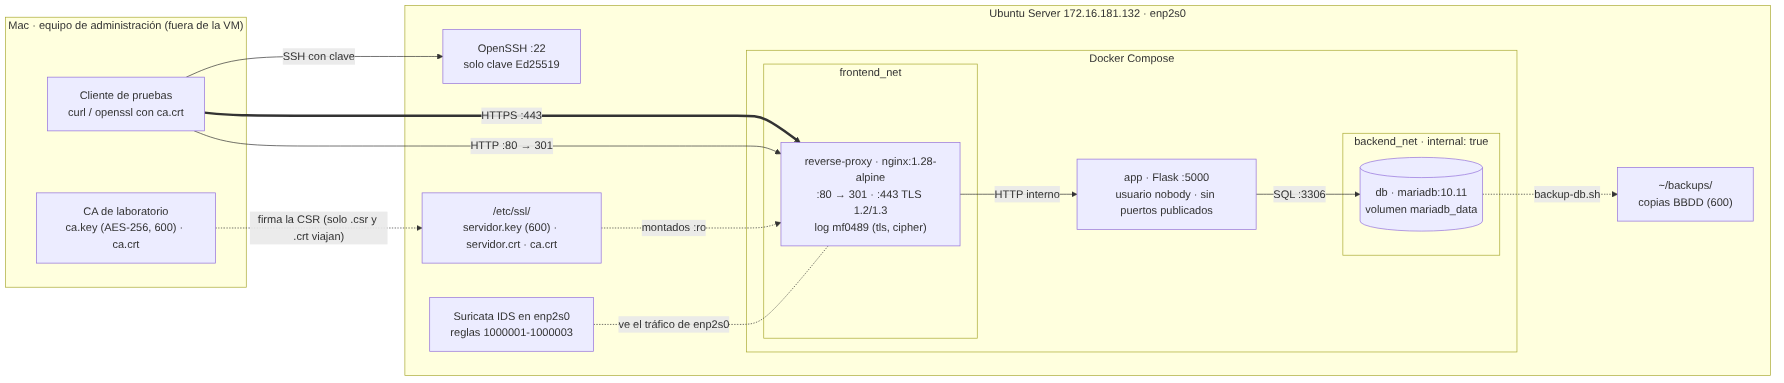
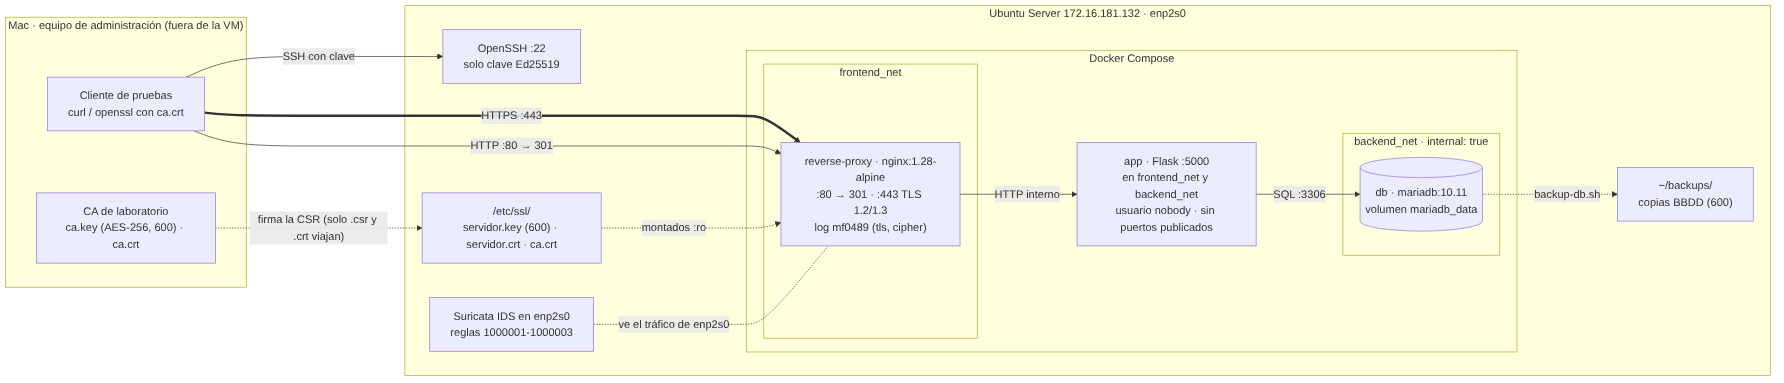
Revisión de todo el repo, también lo del MF0488
- docs/correcciones-mf0488.md: qué decían los docs del MF0488 que ya no es cierto,
  qué hay hoy y su evidencia. Banner en cada documento antiguo (sin reescribirlos)
- check_baseline.sh: con 0 alertas escribía "0" dos veces (corregido)
- Scripts del MF0488 que no se usan, marcados en su cabecera
- Borradas carpetas vacías (diffie-hellman, nginx/conf.d) y .gitkeep sobrantes
- CI: shellcheck de todos los .sh del repo
- Imágenes por rama, no "fijas": dicho tal cual en README y Fase 3
- Diagrama final: la app aparece en las dos redes
- Guía: versiones probadas, con su evidencia

Changed region(s): [[0.5858, 0.3734, 0.7091, 0.6606]]

diff --git a/docs/correcciones-mf0488.md b/docs/correcciones-mf0488.md
@@ -1,0 +1,40 @@
+# Lo del MF0488 que ya no es cierto (o que no se podía demostrar)
+
+Los documentos del MF0488 (`ARCHITECTURE.md`, `docs/adr/`, `docs/WORKLOG.md`, `docs/architecture-schema.md`, `docs/architecture/`, `docs/assets/` y los `.excalidraw`) se quedan como estaban: son lo que se entregó y se corrigió entonces. Esta tabla dice qué partes ya no valen, qué hay hoy y dónde está la prueba. **Cuando no coincidan, manda lo del MF0489.**
+
+## Documentos
+
+| Dónde | Qué dice | Qué hay hoy | Evidencia |
+|---|---|---|---|
+| README antiguo, `architecture-schema.md`, ADR-0006 | "Solo TLS 1.3" | TLS 1.2 y 1.3. 1.1 rechazado | [Fase 4 §3](mf0489/fase4-auditoria-tls-monitorizacion.md#3-versiones-tls), [`check-mac-github.txt`](mf0489/evidencias/fase5/check-mac-github.txt) §8 |
+| ADR-0006 | Certificados autofirmados RSA 2048 | CA propia RSA 4096 (fuera de la VM) y certificado del servidor RSA 3072 firmado por ella | [Fase 2](mf0489/fase2-pki.md) |
+| ADR-0001, ADR-0002, `docs/WORKLOG.md` | Ubuntu Server 24.04 LTS | Ubuntu 26.04 LTS | [`fase5-ssh-firewall-backup.txt`](mf0489/evidencias/fase5/fase5-ssh-firewall-backup.txt) (final) |
+| ADR-0001 | "La única forma de llegar a la BBDD es a través de Nginx" y "los intentos de acceso quedan en los logs de Nginx" | Nginx **no** está en `backend_net` y ni resuelve `db`. Solo la app habla con MariaDB | [`check-vm-github.txt`](mf0489/evidencias/fase5/check-vm-github.txt) §9 y §10 |
+| ADR-0001, README antiguo | WAF | No hay WAF. Nginx es solo reverse proxy | [`default.conf`](../layer2-perimeter/nginx/default.conf) |
+| ADR-0001 | `internal: true` funciona con reglas en la cadena `DOCKER-USER` | No revisé las reglas de iptables. Lo comprobado es el efecto: la BBDD no sale a internet | [`check-vm-github.txt`](mf0489/evidencias/fase5/check-vm-github.txt) §10 |
+| ADR-0002 | Suricata detecta escaneos Nmap. Captura con eBPF | Ninguna regla busca Nmap. Captura con `af-packet`, sin eBPF | [`local.rules`](../layer1-telemetry/suricata/rules/local.rules), [`suricata-config.txt`](mf0489/evidencias/fase4/suricata-config.txt) |
+| ADR-0004 | 1000001 = ICMP Echo Request. 1000002 = user-agent de Nmap, Nikto o sqlmap | 1000001 salta con **cualquier** ICMP (también IPv6 tipo 133). 1000002 salta con cualquier TCP al 80, no mira el user-agent. Las de Nmap estaban en el repo, pero no eran las que corrían en la VM | [`fase4-intento1-vm.txt`](mf0489/evidencias/fase4/fase4-intento1-vm.txt), [`feedback-mf0488.txt`](mf0489/evidencias/fase4/feedback-mf0488.txt) |
+| ADR-0005 | Un hook `pre-commit` actualiza el WORKLOG. "Trazabilidad 100% garantizada" | Hubo un hook local: los commits `e1d76a0` y `1e19d5f` del 15/09 cambian el WORKLOG y su mensaje dice que probaban el hook, pero git no sube los hooks: quien clone el repo no lo tiene. No garantiza nada. El WORKLOG del MF0489 está hecho a mano | `git show e1d76a0 --stat` |
+| ADR-0003 | Numeración ADR-000, 001 y 003 dentro de un archivo | Choca con los archivos `0001`…`0007`. Se deja como está | — |
+| ADR-0003 | OpsMatrix es una fintech | Es el portal de una gestoría (README) | — |
+| `docs/WORKLOG.md` (sesión 3) | MariaDB 11.4, contenedores `(healthy)`, redes `docker_backend_net` y `docker_frontend_net` | `mariadb:10.11`, sin `healthcheck` en el compose, redes `opsmatrix-lab_frontend_net` y `opsmatrix-lab_backend_net`. Las `docker_*` se borraron en la Fase 5 | [`docker-compose.yml`](../docker-compose.yml), [`check-vm-github.txt`](mf0489/evidencias/fase5/check-vm-github.txt) §7, §9 y §13 |
+| ADR-0007 | Persistencia con bind mounts | Volumen con nombre `mariadb_data` | [Fase 3 §7](mf0489/fase3-https-docker.md#7-app-y-persistencia) |
+| ADR-0007 | AppArmor y OrbStack | No configuré ni comprobé AppArmor. Las pruebas en local del MF0489 no se hicieron en OrbStack | — |
+| `architecture-schema.md` | Contenedor `opsmatrix_web` en las dos redes | `reverse-proxy` solo en `frontend_net`. `app` en las dos | [`check-vm-github.txt`](mf0489/evidencias/fase5/check-vm-github.txt) §9 |
+| `docs/architecture/00-documentation-framework.md` | `.gitignore` bloquea los `.crt` | Los certificados son públicos y están en `layer2-perimeter/pki/`. Se bloquean claves, `.env` y copias | [`.gitignore`](../.gitignore) |
+| `docs/architecture/00-documentation-framework.md` | Conventional Commits y entregables en HTML5 | Los commits del MF0489 empiezan por `MF0489:`. No hay entregables en HTML | `git log` |
+| `docs/assets/README.md` | Los diagramas se ven en `ARCHITECTURE.md` | `ARCHITECTURE.md` no tiene imágenes. El diagrama actual es [`arquitectura-final.png`](mf0489/arquitectura-final.png) | — |
+| `architecture.excalidraw`, `architecture-master.excalidraw`, `assets/architecture-schema.png` | Diagramas del MF0488 | Sustituidos por [`arquitectura-final.mmd`](mf0489/arquitectura-final.mmd) | — |
+
+## Scripts y carpetas
+
+| Qué | Problema | Qué hice |
+|---|---|---|
+| `scripts/sync_ops.sh` | Hace `git add .` y `git push origin main` sin revisar lo que sube | No se usa en el MF0489. Se sube a mano después de revisar, y la CI lo vuelve a comprobar. Marcado en su cabecera |
+| `layer1-telemetry/scripts/log_work.sh` y `capture_debug.sh` | Escriben en `docs/WORKLOG.md` (MF0488) | No se usan en el MF0489. Marcados en su cabecera |
+| `layer1-telemetry/baseline/check_baseline.sh` | Con 0 alertas escribía `0` dos veces (`grep -c` ya escribe 0 y luego `\|\| echo "0"` añade otro) | Corregido con `\|\| true`. Es una línea base de salud. La de actividad está en la [Fase 4](mf0489/fase4-auditoria-tls-monitorizacion.md#evidencias-pedidas-en-el-feedback-del-mf0488) |
+| Carpetas `layer2-perimeter/diffie-hellman/` y `layer3-services/nginx/conf.d/` | Vacías (solo `.gitkeep`). Parecían decir que había parámetros DH o una config de Nginx ahí | Borradas. Nginx no usa `ssl_dhparam`: en TLS 1.2 negocia ECDHE ([`fase4-mac.txt`](mf0489/evidencias/fase4/fase4-mac.txt)) |
+| `.gitkeep` en carpetas que ya tienen archivos | Sobraban | Borrados |
+| CI | `shellcheck` solo miraba `scripts/` | Ahora mira todos los `.sh` del repo |
+
+Salida de las comprobaciones: [`scripts-mf0488.txt`](mf0489/evidencias/fase5/scripts-mf0488.txt).

diff --git a/README.md b/README.md
@@ -24,7 +24,7 @@ Laboratorio que simula el portal de una gestoría. La web es mínima a propósit
 
 Las fases 1-4 empiezan con la tabla de criterios de la rúbrica y dónde está la evidencia de cada uno. Lo que dicen los docs está comprobado contra el código en [`coherencia-docs-codigo.txt`](docs/mf0489/evidencias/fase5/coherencia-docs-codigo.txt).
 
-Lo del MF0488 sigue en [`docs/WORKLOG.md`](docs/WORKLOG.md) y [`docs/adr/`](docs/adr/). Es la foto de entonces: donde no coincida con lo de arriba (por ejemplo "solo TLS 1.3" o el compose de `layer3-services/docker`), manda lo del MF0489.
+Lo del MF0488 sigue en [`docs/WORKLOG.md`](docs/WORKLOG.md) y [`docs/adr/`](docs/adr/). Es la foto de entonces y no lo he reescrito. Lo que ya no es cierto (por ejemplo "solo TLS 1.3", el WAF o las reglas de Nmap) está en [correcciones-mf0488.md](docs/correcciones-mf0488.md), con lo que hay hoy y su evidencia.
 
 ## Cómo funciona
 
@@ -57,7 +57,7 @@ Lo del MF0488 sigue en [`docs/WORKLOG.md`](docs/WORKLOG.md) y [`docs/adr/`](docs
 | Configuración como código | Compose, Nginx, reglas de Suricata y SSH versionados en el repo |
 | Observabilidad | Suricata en la red + log de Nginx con versión TLS, cruzados por IP y puerto |
 | Reproducible | `deploy.sh` + `check-*.sh`. Comprobado tras reiniciar la VM |
-| Versiones fijas | Imágenes (`nginx:1.28-alpine`, `mariadb:10.11`) y todas las dependencias de Python, también las transitivas |
+| Versiones fijas | Dependencias de Python exactas (`==`), también las transitivas. Imágenes por rama (`nginx:1.28-alpine`, `mariadb:10.11`, `python:3.12-slim`): no cambian de versión mayor, pero sí reciben parches |
 
 ## Cómo lo he hecho
 
@@ -66,7 +66,7 @@ Lo del MF0488 sigue en [`docs/WORKLOG.md`](docs/WORKLOG.md) y [`docs/adr/`](docs
 | **Método** | MSA / lean: lo mínimo que funcione y se pueda comprobar. Tablas antes que texto, una decisión = un motivo |
 | **Pruebas** | Primero en local, luego en la VM. Pruebas positivas y negativas (lo que tiene que fallar, falla). Matriz completa en la [Fase 5](docs/mf0489/fase5-entrega-final.md#cómo-he-probado-qa) |
 | **Trazabilidad** | Cada paso y cada problema en el [WORKLOG](docs/mf0489/WORKLOG.md). Las salidas de las pruebas son reales y están en [`evidencias/`](docs/mf0489/evidencias/) |
-| **CI** | [GitHub Actions](.github/workflows/checks.yml) repite en cada push `shellcheck`, `docker compose config`, `pip-audit` y `detect-secrets`. Con permisos de solo lectura y la acción fijada por commit |
+| **CI** | [GitHub Actions](.github/workflows/checks.yml) repite en cada push `shellcheck` (todos los `.sh`), `docker compose config`, `py_compile`, `pip-audit` y `detect-secrets`. Con permisos de solo lectura y la acción fijada por commit |
 | **IA** | Ver abajo |
 
 ### Uso de la IA
@@ -121,7 +121,7 @@ opsmatrix-lab/
 │   ├── pki/                      ← ca.crt, servidor.crt/.csr/.ext, ca.crl, ca.cnf (todo público)
 │   └── ssh/00-opsmatrix.conf     ← SSH solo con clave
 ├── layer3-services/app/          ← app Flask + Dockerfile
-├── scripts/                      ← deploy, backup-db, check-vm, check-mac, fase4-*, pki-revocacion y sync_ops (MF0488)
+├── scripts/                      ← deploy, backup-db, check-vm, check-mac, fase4-*, feedback-mf0488-vm, pki-revocacion y sync_ops (MF0488, no se usa)
 └── docs/mf0489/                  ← fases, guía, WORKLOG y evidencias
 ```
 

diff --git a/docs/mf0489/fase1-arquitectura.md b/docs/mf0489/fase1-arquitectura.md
@@ -26,8 +26,8 @@ Actualizo el diagrama de OpsMatrix (MF0488) para añadir HTTPS. Nginx pasa a ser
 
 | Pregunta | Respuesta |
 |---|---|
-| ¿Por qué HTTPS y no HTTP? | Con HTTP todo viaja en claro: usuario, contraseña y datos de clientes se leen con un `tcpdump` (se ve en la Fase 4). Y nada demuestra que el servidor sea el bueno, así que alguien en medio puede suplantarlo (MITM). HTTPS añade cifrado, integridad y autenticación del servidor |
-| ¿Por qué TLS 1.2 y 1.3? | TLS 1.3 tiene un handshake más corto, solo admite cifrados AEAD y siempre usa claves de sesión nuevas (forward secrecy). TLS 1.2 se deja por compatibilidad con clientes más antiguos. 1.0 y 1.1 están obsoletos (RFC 8996) |
+| ¿Por qué HTTPS y no HTTP? | Con HTTP todo viaja en claro: rutas, cabeceras y, si los hubiera, usuarios, contraseñas y datos de clientes se leen con un `tcpdump` (en la Fase 4 se ven la ruta y las cabeceras del puerto 80). Y nada demuestra que el servidor sea el bueno, así que alguien en medio puede suplantarlo (MITM). HTTPS añade cifrado, integridad y autenticación del servidor |
+| ¿Por qué TLS 1.2 y 1.3? | TLS 1.3 tiene un handshake más corto, solo admite cifrados AEAD y cada handshake completo usa claves de sesión nuevas (forward secrecy). TLS 1.2 se deja por compatibilidad con clientes más antiguos. 1.0 y 1.1 están obsoletos (RFC 8996) |
 
 ## Diagrama
 

diff --git a/docs/mf0489/WORKLOG.md b/docs/mf0489/WORKLOG.md
@@ -23,6 +23,7 @@ Rama `mf0489-https`, ya unida a `main`. Trabajo hecho del 19 al 21/10/2026 entre
 | 17 | Evidencias pedidas en el feedback del MF0488: ping, SID 1000001, `suricata -T`, `HOME_NET` y línea base de actividad | Todo real. [Fase 4](fase4-auditoria-tls-monitorizacion.md#evidencias-pedidas-en-el-feedback-del-mf0488) |
 | 18 | Subida a GitHub y comprobación desde un clon limpio: `check-vm.sh` en la VM (en `main`) y `check-mac.sh` en el Mac | Igual que antes de subir. [`check-vm-github.txt`](evidencias/fase5/check-vm-github.txt) y [`check-mac-github.txt`](evidencias/fase5/check-mac-github.txt) |
 | 19 | Revisión cruzada: cada salida de los docs buscada en las evidencias y cada directiva en el código | 44 OK. Las salidas que solo estaban en mi terminal ahora están en `evidencias/`. [`coherencia-docs-codigo.txt`](evidencias/fase5/coherencia-docs-codigo.txt) |
+| 20 | Revisión de todo el repo, también lo del MF0488 | Tabla de [correcciones del MF0488](../correcciones-mf0488.md), banner en cada documento antiguo, bug de `check_baseline.sh` corregido, carpetas vacías borradas y `shellcheck` de todos los `.sh` en la CI |
 
 ## Dificultades
 

diff --git a/docs/mf0489/fase3-https-docker.md b/docs/mf0489/fase3-https-docker.md
@@ -122,7 +122,7 @@ Pesa 131 bytes porque el volumen estaba vacío: la BBDD nunca llegó a arrancar,
 | `expose` en la app en vez de `ports` | Así solo se ve dentro de Docker. La única entrada es Nginx |
 | Contraseñas en `.env` (600, en `.gitignore`) | En el MF0488 me penalizaron por tenerlas escritas en el compose |
 | La app corre como `nobody` | Si la explotan, no es root dentro del contenedor |
-| Versiones fijas (`nginx:1.28-alpine`, `mariadb:10.11`) | Para que siempre se instale lo mismo y no lo que traiga `latest` ese día |
+| Imágenes por rama (`nginx:1.28-alpine`, `mariadb:10.11`) | Que no entre una versión mayor nueva sin querer, como pasaría con `latest`. Los parches sí entran. Fijarlas por digest (`@sha256:…`) sería lo exacto, pero habría que actualizarlas a mano |
 | Un solo `docker-compose.yml` | Había dos y uno no se usaba. Borré el que sobraba |
 | La app usa el servidor de pruebas de Flask | Basta para un laboratorio con una visita cada vez. En producción iría detrás de un servidor WSGI como gunicorn (Flask avisa de ello en el log) |
 

diff --git a/docs/mf0489/guia-despliegue.md b/docs/mf0489/guia-despliegue.md
@@ -9,6 +9,8 @@ Cómo montar OpsMatrix desde cero, comprobar que funciona y recuperarlo si algo 
 | Equipo de administración (en mi caso, el Mac) | CA y cliente de pruebas | OpenSSL 3, `curl`, `ssh` |
 | Ubuntu Server (VM) | Servidor | Docker con Compose, OpenSSL, Suricata, `jq` |
 
+Probado con Ubuntu 26.04 LTS, Docker 29.1.3, Compose 2.40.3, Suricata 8.0.3 y OpenSSL 3.5.5 en la VM, y OpenSSL 3.5.9 en el Mac ([`fase5-ssh-firewall-backup.txt`](evidencias/fase5/fase5-ssh-firewall-backup.txt), [`check-vm-github.txt`](evidencias/fase5/check-vm-github.txt), [`feedback-mf0488.txt`](evidencias/fase4/feedback-mf0488.txt), [`pki-salidas.txt`](evidencias/fase2/pki-salidas.txt)).
+
 La CA **nunca** se crea en la VM. La VM se exportará como CTF y no puede llevar `ca.key`.
 
 ## 2. PKI (una vez)

diff --git a/docs/architecture/00-documentation-framework.md b/docs/architecture/00-documentation-framework.md
@@ -1,5 +1,7 @@
 # Marco Metodológico de Documentación Técnico-Operativa (Docs as Code)
 
+> **MF0488.** Documento de entonces, sin cambios. Lo que ya no es cierto está en [correcciones-mf0488.md](../correcciones-mf0488.md).
+
 ## 1. Principios de Documentación SecOps
 Para garantizar trazabilidad, auditoría y mantenibilidad en entornos de producción, la documentación se gestiona mediante el paradigma **Docs as Code**:
 * **Co-localización:** La documentación reside en el mismo repositorio de código (`docs/`), garantizando que la evolución técnica e infraestructura se mantengan sincronizadas en cada commit.

diff --git a/docs/adr/0007-comprehensive-design-rationales-and-stack-justification.md b/docs/adr/0007-comprehensive-design-rationales-and-stack-justification.md
@@ -1,6 +1,6 @@
 # ADR-0007: Selección de stack y justificación arquitectónica (Fase 1)
 
-> **Nota MF0489:** la BBDD no usa bind mounts sino un volumen con nombre (`mariadb_data`), declarado en `docker-compose.yml` y comprobado tras reiniciar. Ver [fase3-https-docker.md](../mf0489/fase3-https-docker.md#7-app-y-persistencia).
+> **MF0488.** Documento de entonces, sin cambios. Lo que ya no es cierto está en [correcciones-mf0488.md](../correcciones-mf0488.md).
 
 * **Estado:** Aprobado
 * **Autor:** Xavier Margalef Riestra

diff --git a/docs/WORKLOG.md b/docs/WORKLOG.md
@@ -1,5 +1,7 @@
 # OpsMatrix-Lab — Audit Log de Desarrollo (Evidencias de Autoría & Registro Técnico)
 
+> **MF0488.** Documento de entonces, sin cambios. Lo que ya no es cierto está en [correcciones-mf0488.md](correcciones-mf0488.md).
+
 Este documento recopila la bitácora cronológica de trabajo, comandos ejecutados, decisiones de arquitectura y registros del repositorio. Sirve como evidencia de autoría y progreso lícito del proyecto ante auditoría o evaluación.
 
 ---

diff --git a/docs/architecture-schema.md b/docs/architecture-schema.md
@@ -1,6 +1,6 @@
 # OpsMatrix - Topologia de Arquitectura e Infraestructura
 
-> **Nota MF0489:** este esquema es del MF0488. Nginx permite TLS 1.2 y 1.3 y el diagrama actual está en [fase5-entrega-final.md](mf0489/fase5-entrega-final.md#1-arquitectura-final).
+> **MF0488.** Documento de entonces, sin cambios. Lo que ya no es cierto está en [correcciones-mf0488.md](correcciones-mf0488.md).
 
 ## Diagrama de Capas (Modelo Zero Trust)
 

diff --git a/docs/adr/0006-layer2-tls-volume-mounting-troubleshooting.md b/docs/adr/0006-layer2-tls-volume-mounting-troubleshooting.md
@@ -1,6 +1,6 @@
 # ADR-006: Correccion de Montaje de Volumenes y Terminacion TLS 1.3 en Nginx
 
-> **Nota MF0489:** Nginx permite TLS 1.2 y 1.3, no solo 1.3. La configuración actual está en [fase3-https-docker.md](../mf0489/fase3-https-docker.md).
+> **MF0488.** Documento de entonces, sin cambios. Lo que ya no es cierto está en [correcciones-mf0488.md](../correcciones-mf0488.md).
 
 * Fecha: 2026-09-16
 * Estado: Aceptado

diff --git a/ARCHITECTURE.md b/ARCHITECTURE.md
@@ -1,5 +1,7 @@
 # OpsMatrix Lab Architecture: Manual CLI vs. Declarative Compose
 
+> **MF0488.** Documento de entonces, sin cambios. Lo que ya no es cierto está en [correcciones-mf0488.md](docs/correcciones-mf0488.md).
+
 Este documento define la transición arquitectónica y la equivalencia operativa entre el despliegue manual y el modelo declarativo en capas.
 
 ## 1. Equivalencia Operativa
